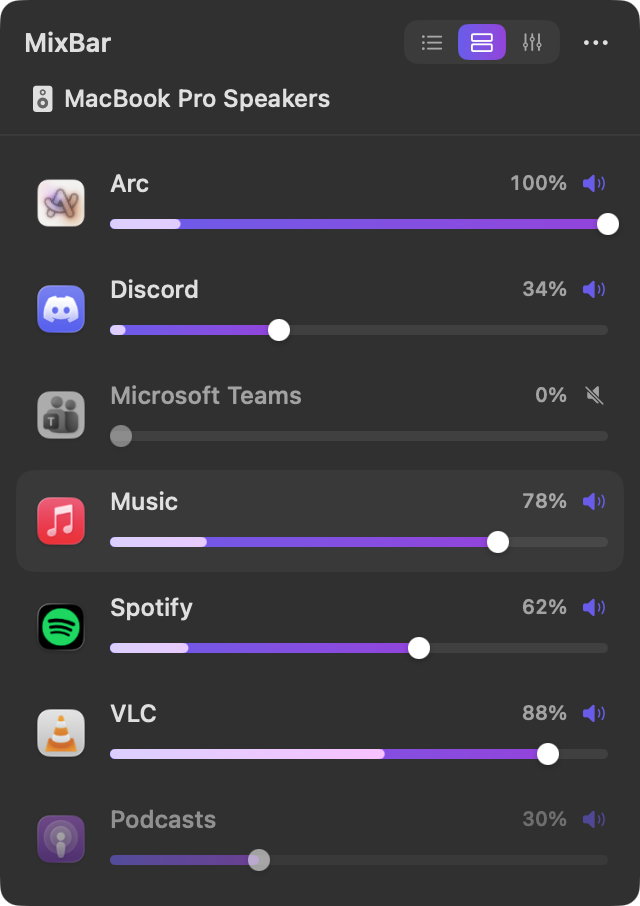
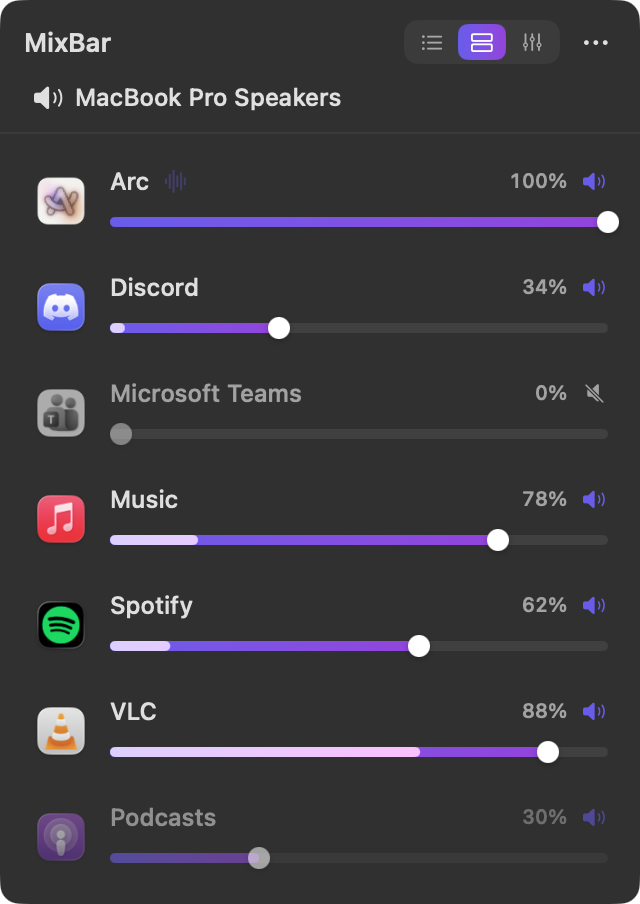
Show that an app at 100% is playing, instead of an empty meter
At full volume MixBar does not tap the app, so it has no level to read,
and the meter sat empty until the slider moved an inch, when it suddenly
appeared. A playing, untouched app now carries an animated waveform with
a tooltip saying why there is no level. The demo stops metering apps at
100%, which the real engine never could, and the screenshots follow.

diff --git a/app/Sources/MixBar/Adapters/UI/RowLayouts.swift b/app/Sources/MixBar/Adapters/UI/RowLayouts.swift
@@ -12,14 +12,17 @@ struct CompactRow: View {
         HStack(spacing: 8) {
             AppIcon(image: controls.icon, size: 18, isMuted: row.mix.isMuted)
 
-            Text(row.application.name)
-                .font(.system(size: 11, weight: .medium))
-                .lineLimit(1)
-                .truncationMode(.tail)
-                .foregroundStyle(row.mix.isMuted ? .secondary : .primary)
-                // Fixed, so the sliders line up into a column instead of
-                // stepping in and out with the length of each app's name.
-                .frame(width: 78, alignment: .leading)
+            HStack(spacing: 3) {
+                Text(row.application.name)
+                    .font(.system(size: 11, weight: .medium))
+                    .lineLimit(1)
+                    .truncationMode(.tail)
+                    .foregroundStyle(row.mix.isMuted ? .secondary : .primary)
+                if row.showsPlayingBadge { PlayingBadge(size: 10) }
+            }
+            // Fixed, so the sliders line up into a column instead of
+            // stepping in and out with the length of each app's name.
+            .frame(width: 78, alignment: .leading)
 
             VolumeSlider(
                 volume: row.mix.volume.value,
@@ -59,6 +62,8 @@ struct ComfortableRow: View {
                         .font(.system(size: 12, weight: .medium))
                         .lineLimit(1)
                         .foregroundStyle(row.mix.isMuted ? .secondary : .primary)
+
+                    if row.showsPlayingBadge { PlayingBadge(size: 11) }
 
                     Spacer(minLength: 4)
 
@@ -104,10 +109,13 @@ struct ChannelStrip: View {
                 .frame(width: 26, height: 112)
                 .accessibilityLabel("\(row.application.name) volume")
 
-            Text("\(row.mix.percent)")
-                .font(.system(size: 10, weight: .semibold))
-                .monospacedDigit()
-                .foregroundStyle(.secondary)
+            HStack(spacing: 2) {
+                if row.showsPlayingBadge { PlayingBadge(size: 10) }
+                Text("\(row.mix.percent)")
+                    .font(.system(size: 10, weight: .semibold))
+                    .monospacedDigit()
+                    .foregroundStyle(.secondary)
+            }
 
             MuteButton(isMuted: row.mix.isMuted, size: 9, action: controls.onMute)
 

diff --git a/app/Sources/MixBar/Adapters/UI/RowParts.swift b/app/Sources/MixBar/Adapters/UI/RowParts.swift
@@ -29,6 +29,25 @@ struct AppIcon: View {
     }
 }
 
+/// Stands in for the meter at 100%, where MixBar is out of the app's audio
+/// path and has no level to read, only the fact that it is playing.
+struct PlayingBadge: View {
+    let size: CGFloat
+
+    var body: some View {
+        Image(systemName: "waveform")
+            .font(.system(size: size, weight: .semibold))
+            .foregroundStyle(Brand.start)
+            .symbolEffect(.variableColor.iterative, options: .repeating)
+            .help("Playing. At 100% MixBar stays out of this app's audio, so it has no level.")
+            .accessibilityLabel("Playing")
+    }
+}
+
+extension MixerSnapshot.Row {
+    var showsPlayingBadge: Bool { application.isPlaying && !isMetered }
+}
+
 struct MuteButton: View {
     let isMuted: Bool
     let size: CGFloat

diff --git a/app/Sources/MixBar/Adapters/Demo/DemoAdapters.swift b/app/Sources/MixBar/Adapters/Demo/DemoAdapters.swift
@@ -81,13 +81,14 @@ final class DemoMixingEngine: AudioMixingEngine {
     }
 
     func takePeak(for id: AudioAppID) -> Float {
-        guard let app = DemoRoster.byID[id], app.isPlaying else { return 0 }
+        // Like the real engine: an app at 100% is not tapped, so has no level.
+        guard let app = DemoRoster.byID[id], app.isPlaying, let gain = gains[id] else { return 0 }
 
         let elapsed = Float(Date().timeIntervalSince(start))
         let swell = 0.58 + 0.42 * sin(elapsed * app.tempo + app.phase)
         let flutter = 0.84 + 0.16 * sin(elapsed * app.tempo * 5.3 + app.phase * 2)
 
-        let level = app.loudness * swell * flutter * (gains[id] ?? 1)
+        let level = app.loudness * swell * flutter * gain
         return min(max(level, 0), 1)
     }
 

diff --git a/app/Tests/MixBarTests/MixerServiceTests.swift b/app/Tests/MixBarTests/MixerServiceTests.swift
@@ -66,6 +66,18 @@ struct MixerServiceTests {
         #expect(engine.latest.isEmpty)
     }
 
+    @Test("An app at full volume has no meter, since nothing taps it")
+    func onlyRoutedAppsAreMetered() {
+        let catalog = FakeCatalog()
+        catalog.applications = [app("com.spotify.client")]
+        let service = makeService(catalog: catalog)
+
+        #expect(service.refresh().rows.map(\.isMetered) == [false])
+
+        service.setVolume(Volume(0.5), for: .bundle("com.spotify.client"))
+        #expect(service.refresh().rows.map(\.isMetered) == [true])
+    }
+
     @Test("Muting drives the gain to silence and remembers the slider")
     func mutingKeepsTheVolumeForLater() {
         let catalog = FakeCatalog()

diff --git a/app/Sources/MixBar/Domain/MixerSnapshot.swift b/app/Sources/MixBar/Domain/MixerSnapshot.swift
@@ -7,6 +7,9 @@ struct MixerSnapshot: Equatable, Sendable {
         let mix: AppMix
 
         var id: AudioAppID { application.id }
+
+        /// Only a routed app has a tap to read a level from.
+        var isMetered: Bool { !mix.isDefault }
     }
 
     var rows: [Row] = []
